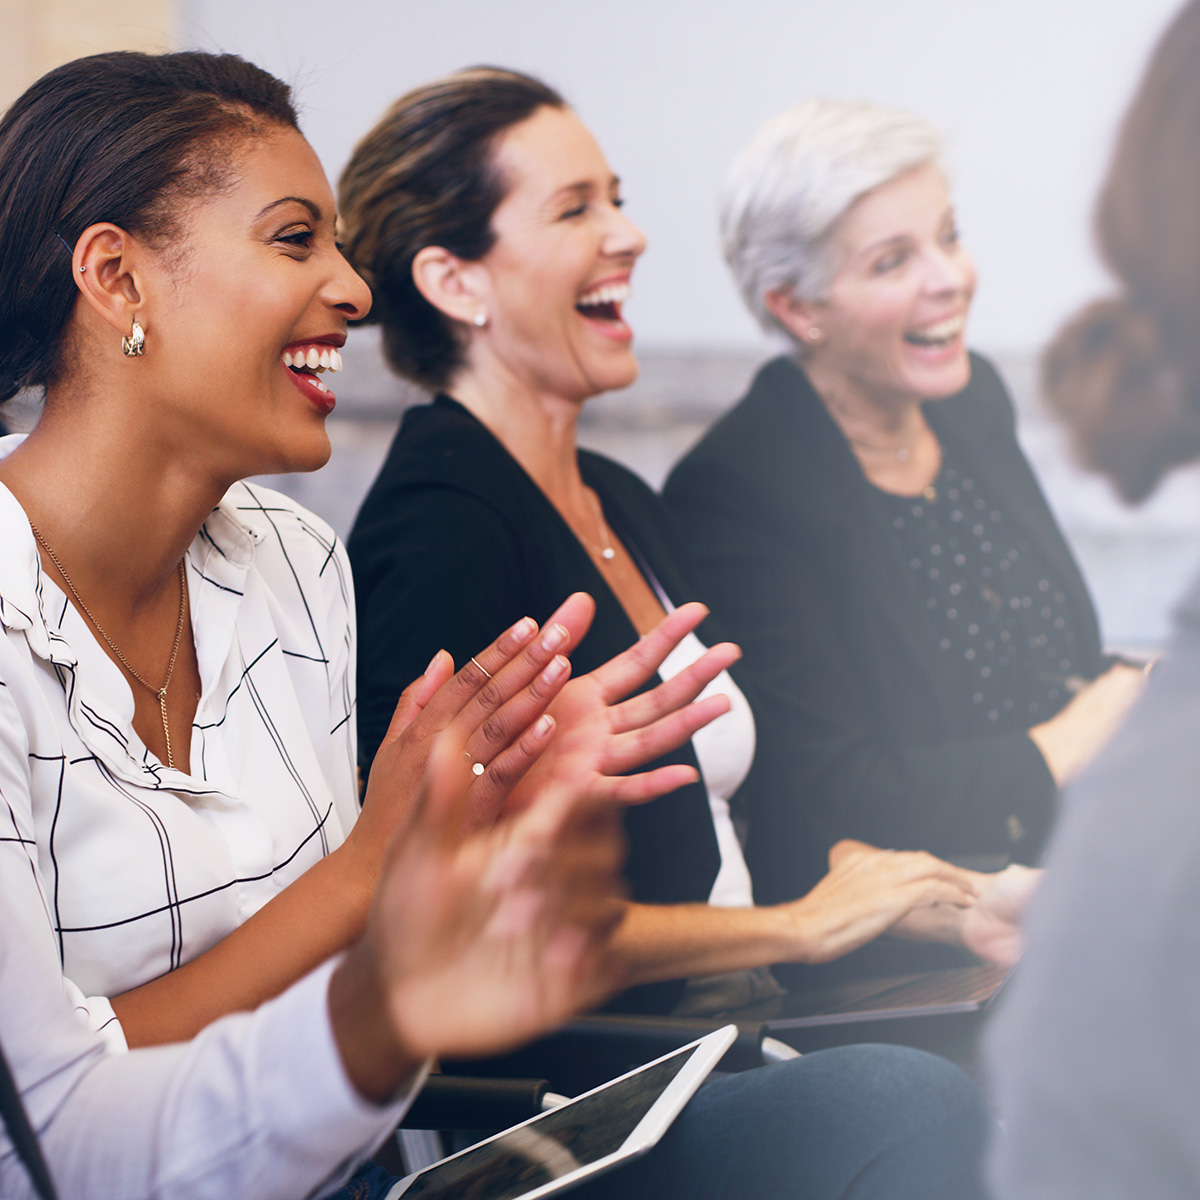
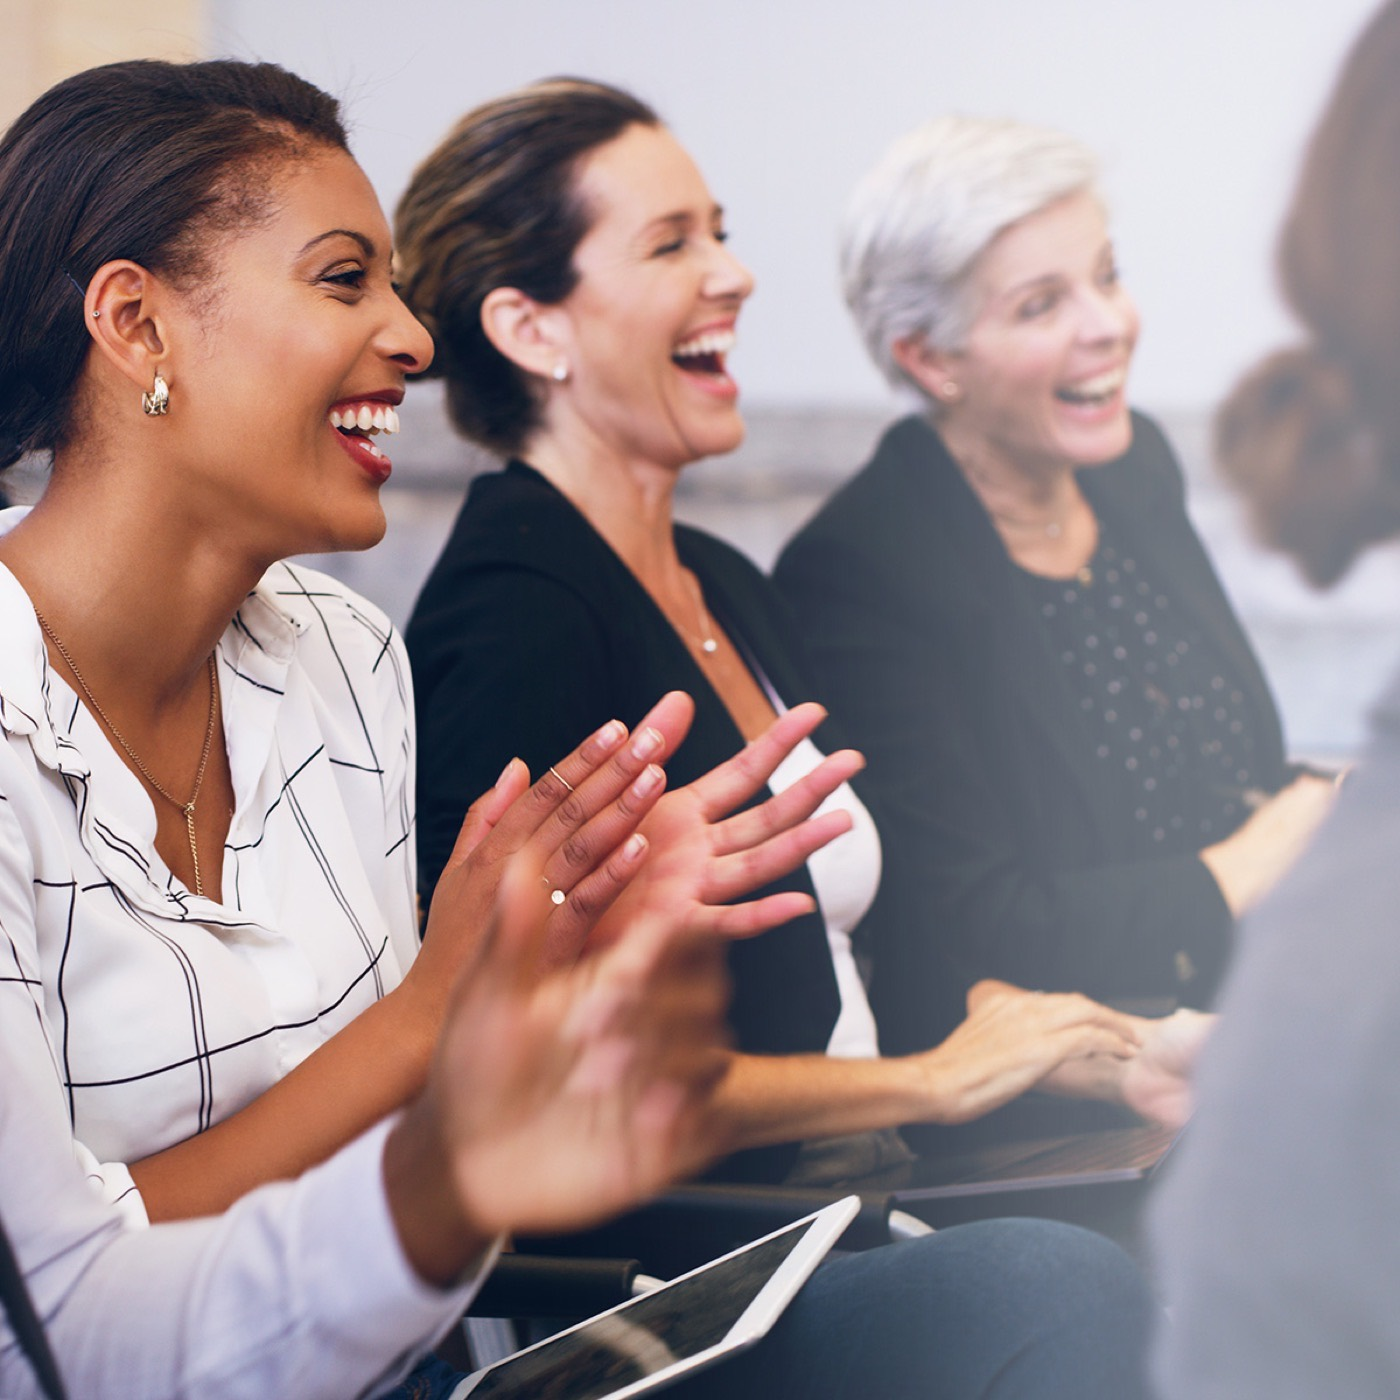
perf(images): optimize & convert article photos to JPEG (20M -> 7.4M)

diff --git a/lib/articles.ts b/lib/articles.ts
@@ -3,19 +3,19 @@ export type Article = { title: string; image: string };
 export const articles: Article[] = [
   {
     title: "La méthode IDDEA® : penser autrement pour agir concrètement",
-    image: "/images/articles/Visuel-Article-BlogLinkedin-3.png",
+    image: "/images/articles/Visuel-Article-BlogLinkedin-3.jpg",
   },
   {
     title: "Quand les collaborateurs prennent la parole : récit d’un Forum Ouvert dans le secteur public",
-    image: "/images/articles/Visuel-Article-BlogLinkedin-2.png",
+    image: "/images/articles/Visuel-Article-BlogLinkedin-2.jpg",
   },
   {
     title: "Plaidoyer pour le post-it : ce petit carré mal-aimé.",
-    image: "/images/articles/post-it-coefficience3.png",
+    image: "/images/articles/post-it-coefficience3.jpg",
   },
   {
     title: "Avec le collaboratif, en finir avec le sentiment d’impuissance des managers",
-    image: "/images/articles/collaboratif-Coefficience3.png",
+    image: "/images/articles/collaboratif-Coefficience3.jpg",
   },
   {
     title: "Pratiques managériales en Europe, quand l’IGAS fait son rapport.",
@@ -23,19 +23,19 @@ export const articles: Article[] = [
   },
   {
     title: "Chronique d’une réussite : l’association d’un couple d’agents généraux AXA accompagnés par SY&CO",
-    image: "/images/articles/1751358123368.png",
+    image: "/images/articles/1751358123368.jpg",
   },
   {
     title: "Regards croisés sur la Fresque des Équipes de Direction©",
-    image: "/images/articles/Fresque-des-equipes-de-direction-comite-de-direction-Coefficience3.png",
+    image: "/images/articles/Fresque-des-equipes-de-direction-comite-de-direction-Coefficience3.jpg",
   },
   {
     title: "Culture d’entreprise : du storytelling au vécu, comment construire une identité forte et engageante ?",
-    image: "/images/articles/Culture-dentreprise-Coefficience3.png",
+    image: "/images/articles/Culture-dentreprise-Coefficience3.jpg",
   },
   {
     title: "Transformer la collaboration en équipe grâce au DISC : un séminaire qui fait la différence.",
-    image: "/images/articles/Seminaire-DISC.png",
+    image: "/images/articles/Seminaire-DISC.jpg",
   },
 ];
 